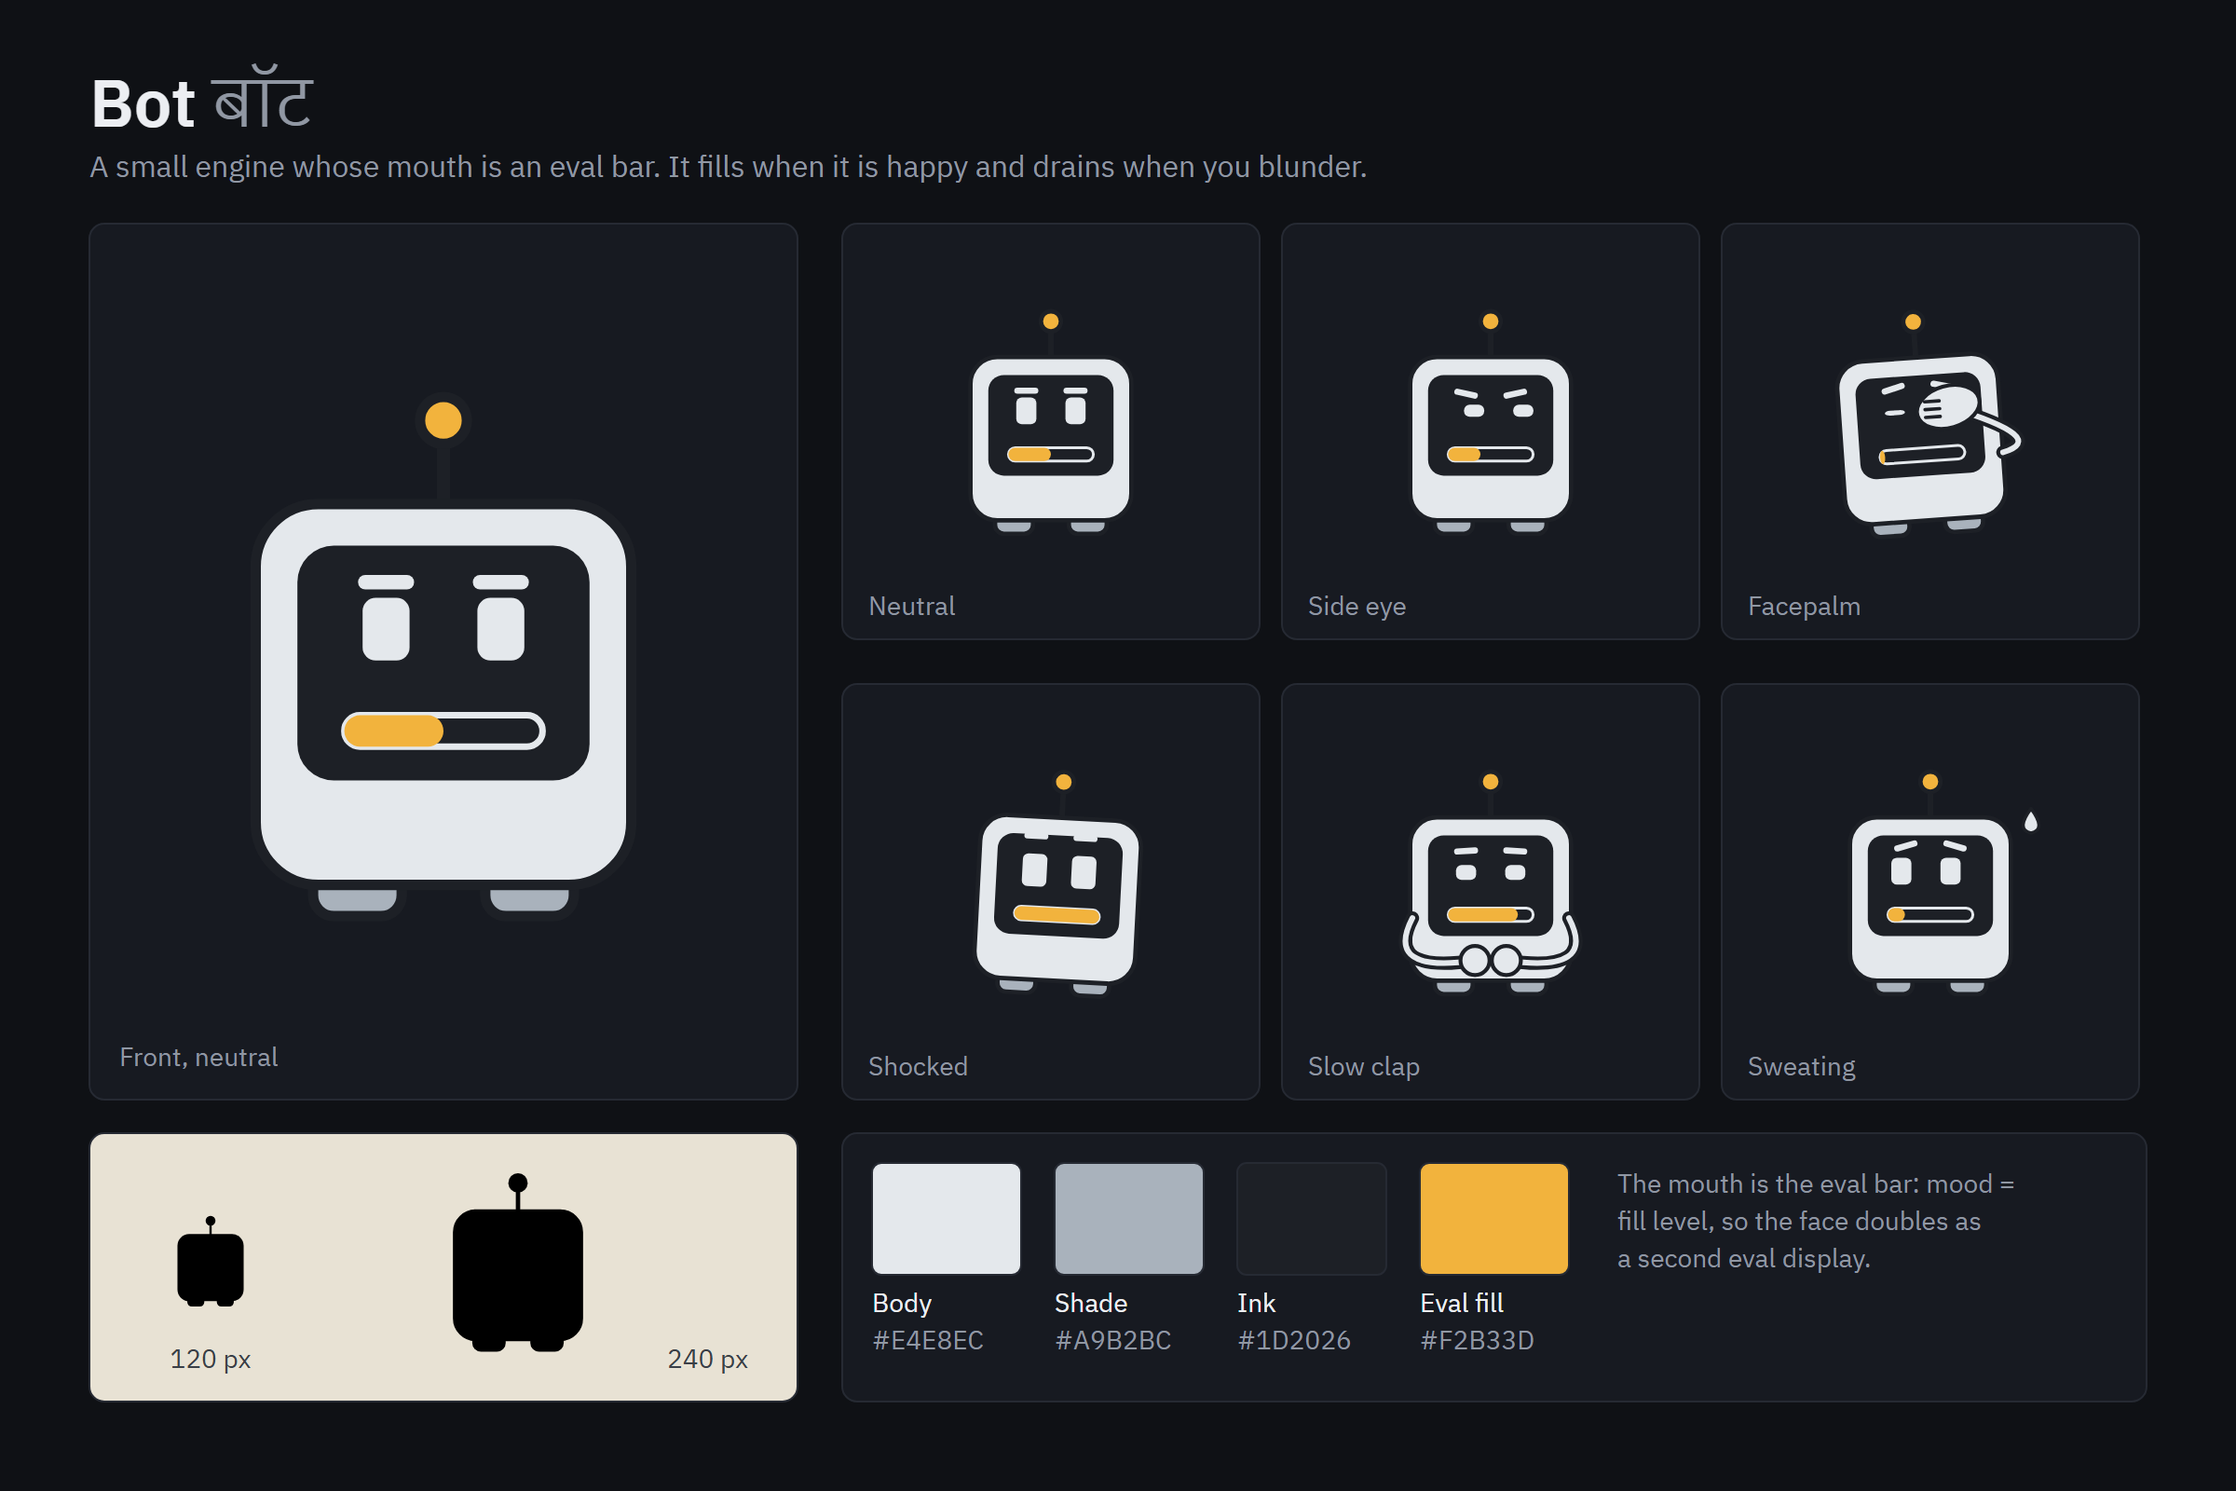
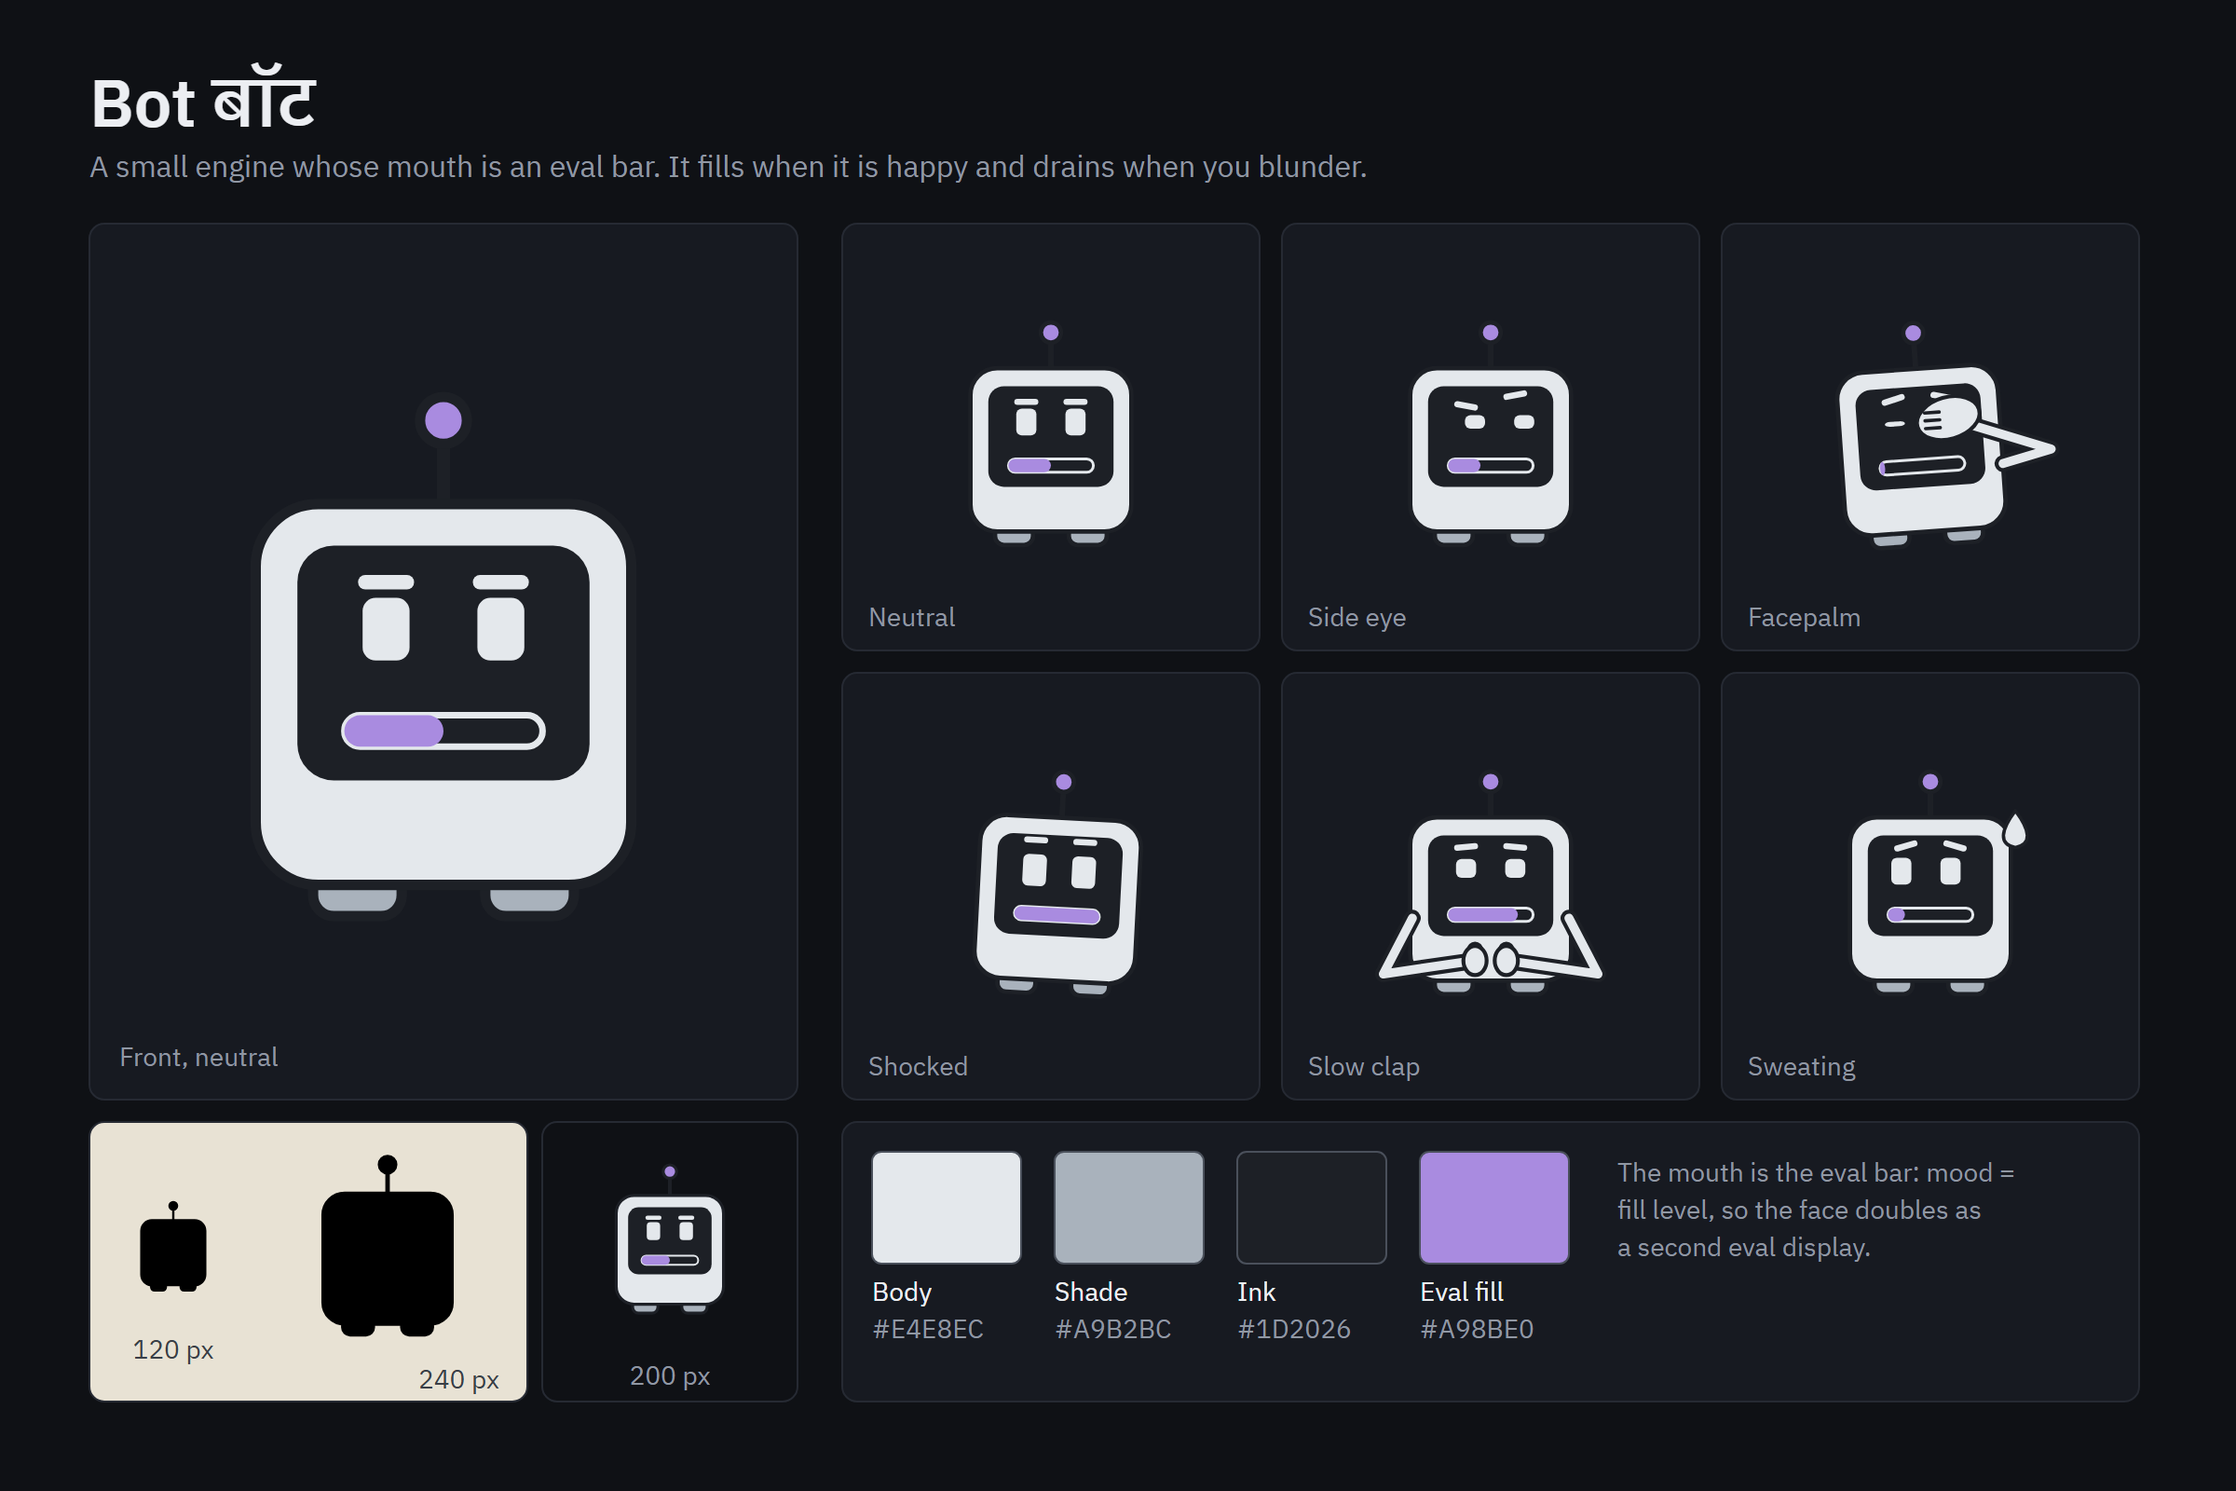
fix(mascot): apply design-critic findings
Accents moved off the move-quality ambers, two-segment elbowed arms,
mitten hands, body-coloured lids, distinct side-eye vs slow-clap, crown
pop on shocked, sweat on the temple, 200 px colour check, grid fixes.

diff --git a/design/mascot/build_sheets.py b/design/mascot/build_sheets.py
@@ -45,6 +45,8 @@ class Face:
     sweat: bool = False
     level: float = 0.5         # engine bot: eval-bar mouth fill
     lean: float = 0.0          # body rotation in degrees
+    brow_r_y: float = 0.0      # extra raise of the right brow only (skeptical look)
+    pop: float = 0.0           # head prop lift in px (crown pops off when shocked)
 
 
 def attrs(**kw) -> str:
@@ -53,7 +55,7 @@ def attrs(**kw) -> str:
 
 # ---------- shared parts ----------
 
-def eye(cx: float, cy: float, f: Face, p: Palette, uid: str, rx=15, ry=20) -> str:
+def eye(cx: float, cy: float, f: Face, p: Palette, uid: str, rx=18, ry=24) -> str:
     rx, ry = rx * f.scale, ry * f.scale
     if f.shut:
         bend = 7 if f.shut == "down" else -3
@@ -63,13 +65,13 @@ def eye(cx: float, cy: float, f: Face, p: Palette, uid: str, rx=15, ry=20) -> st
             d = f"M{cx-rx},{cy-6} L{cx+rx*0.5},{cy} L{cx-rx},{cy+6}" if uid.endswith("l") else f"M{cx+rx},{cy-6} L{cx-rx*0.5},{cy} L{cx+rx},{cy+6}"
         return f'<g id="eye-{uid}"><path d="{d}" fill="none" stroke="{p.ink}" stroke-width="{STROKE+1}" stroke-linecap="round" stroke-linejoin="round"/>{extra}</g>'
     clip = f"clip-{uid}"
-    pr = 7.5 * f.pupil * f.scale
+    pr = 8.5 * f.pupil * f.scale
     pxx, pyy = cx + f.px * (rx - pr - 2), cy + f.py * (ry - pr - 2)
     lid_h = 2 * ry * (1 - f.open)
     lid = ""
     if lid_h > 0.5:
         top = cy - ry
-        lid = (f'<rect x="{cx-rx-2}" y="{top-2}" width="{2*rx+4}" height="{lid_h+2}" fill="{p.shade}"/>'
+        lid = (f'<rect x="{cx-rx-2}" y="{top-2}" width="{2*rx+4}" height="{lid_h+2}" fill="{p.body}"/>'
                f'<line x1="{cx-rx}" y1="{top+lid_h}" x2="{cx+rx}" y2="{top+lid_h}" stroke="{p.ink}" stroke-width="{STROKE-0.5}"/>')
     return (f'<g id="eye-{uid}"><clipPath id="{clip}"><ellipse cx="{cx}" cy="{cy}" rx="{rx}" ry="{ry}"/></clipPath>'
             f'<ellipse cx="{cx}" cy="{cy}" rx="{rx}" ry="{ry}" fill="{p.body}"/>'
@@ -80,12 +82,13 @@ def eye(cx: float, cy: float, f: Face, p: Palette, uid: str, rx=15, ry=20) -> st
 
 def brows(lx: float, rx_: float, y: float, f: Face, p: Palette, color: str | None = None, w=20) -> str:
     c = color or p.ink
-    y = y - f.brow_y * 9
+    y = y - max(-1.0, min(1.0, f.brow_y)) * 9  # capped so brows never hit the head prop
     out = []
     for side, x in (("l", lx), ("r", rx_)):
         a = f.brow * 18 * (1 if side == "l" else -1)  # inner ends tilt together
-        out.append(f'<line id="brow-{side}" x1="{x-w/2}" y1="{y}" x2="{x+w/2}" y2="{y}" stroke="{c}" stroke-width="{STROKE+1.5}" '
-                   f'stroke-linecap="round" transform="rotate({a} {x} {y})"/>')
+        by = y - (f.brow_r_y * 8 if side == "r" else 0)
+        out.append(f'<line id="brow-{side}" x1="{x-w/2}" y1="{by}" x2="{x+w/2}" y2="{by}" stroke="{c}" stroke-width="{STROKE+1.5}" '
+                   f'stroke-linecap="round" transform="rotate({a} {x} {by})"/>')
     return "".join(out)
 
 
@@ -105,15 +108,17 @@ def mouth(cx: float, cy: float, kind: str, p: Palette) -> str:
 
 def arm(points: list[tuple[float, float]], p: Palette, side: str, hand_r=13) -> str:
     (x0, y0), (x1, y1), (x2, y2) = points
-    d = f"M{x0},{y0} Q{x1},{y1} {x2},{y2}"
-    return (f'<g id="arm-{side}"><path d="{d}" fill="none" stroke="{p.ink}" stroke-width="{STROKE+8}" stroke-linecap="round"/>'
-            f'<path d="{d}" fill="none" stroke="{p.body}" stroke-width="{STROKE+1}" stroke-linecap="round"/>'
+    d = f"M{x0},{y0} L{x1},{y1} L{x2},{y2}"  # shoulder, elbow, hand: two segments per spec section 7
+    return (f'<g id="arm-{side}"><path d="{d}" fill="none" stroke="{p.ink}" stroke-width="{STROKE+11}" stroke-linecap="round" stroke-linejoin="round"/>'
+            f'<path d="{d}" fill="none" stroke="{p.body}" stroke-width="{STROKE+4}" stroke-linecap="round" stroke-linejoin="round"/>'
             + hand(x2, y2, hand_r, p) + '</g>')
 
 
 def hand(x: float, y: float, r: float, p: Palette) -> str:
     if r < 20:
-        return f'<circle cx="{x}" cy="{y}" r="{r}" fill="{p.body}" stroke="{p.ink}" stroke-width="{STROKE-0.5}"/>'
+        sk = f'fill="{p.body}" stroke="{p.ink}" stroke-width="{STROKE-0.5}"'
+        return (f'<circle cx="{x}" cy="{y-r*0.75}" r="{r*0.42}" {sk}/>'  # thumb
+                f'<ellipse cx="{x}" cy="{y}" rx="{r*0.8}" ry="{r}" {sk}/>')
     # open palm laid over the face: a wide mitten with finger creases, so it never reads as a monocle
     creases = "".join(f'<line x1="{x-r*0.95}" y1="{y+dy}" x2="{x-r*0.35}" y2="{y+dy}" stroke="{p.ink}" stroke-width="{STROKE-1}" stroke-linecap="round"/>'
                       for dy in (-6, 1, 8))
@@ -121,8 +126,8 @@ def hand(x: float, y: float, r: float, p: Palette) -> str:
             f'stroke="{p.ink}" stroke-width="{STROKE-0.5}"/>' + creases)
 
 
-def sweat(x: float, y: float, p: Palette) -> str:
-    return (f'<path d="M{x},{y} C{x+9},{y+12} {x+10},{y+20} {x},{y+22} C{x-10},{y+20} {x-9},{y+12} {x},{y} Z" '
+def sweat(x: float, y: float, p: Palette, k: float = 1.5) -> str:
+    return (f'<path d="M{x},{y} C{x+9*k},{y+12*k} {x+10*k},{y+20*k} {x},{y+22*k} C{x-10*k},{y+20*k} {x-9*k},{y+12*k} {x},{y} Z" '
             f'fill="{p.body}" stroke="{p.ink}" stroke-width="{STROKE-1}" stroke-linejoin="round"/>')
 
 
@@ -145,15 +150,15 @@ def pyaada(f: Face, p: Palette) -> str:
     ink = f'stroke="{p.ink}" stroke-width="{STROKE}" stroke-linejoin="round"'
     arms_back = ""
     arms_front = "".join(arm(pts, p, s, hand_r=22 if f.arms == "facepalm" else 13) for s, pts in PAWN_ARMS[f.arms])
-    face = (eye(98, 88, f, p, "l") + eye(142, 88, f, p, "r") + brows(97, 143, 58, f, p) + mouth(120, 122, f.mouth, p))
-    crown = (f'<g id="prop" transform="translate(112,8) rotate(13)"><path d="M0,32 L0,9 L13,19 L26,0 L39,19 L52,9 L52,32 Z" '
+    face = (eye(96, 90, f, p, "l") + eye(144, 90, f, p, "r") + brows(96, 144, 54, f, p) + mouth(120, 126, f.mouth, p))
+    crown = (f'<g id="prop-head" transform="translate({112 + f.pop * 0.3},{8 - f.pop}) rotate({13 + f.pop * 0.8})"><path d="M0,32 L0,9 L13,19 L26,0 L39,19 L52,9 L52,32 Z" '
              f'fill="{p.accent}" {ink}/></g>')
     return (f'<g transform="rotate({f.lean} 120 249)">'
             f'<path id="body" d="M88,138 C86,170 62,190 46,210 L194,210 C178,190 154,170 152,138 Z" fill="{p.body}" {ink}/>'
             + pawn_base(p) +
             f'<ellipse id="collar" cx="120" cy="140" rx="45" ry="11" fill="{p.body}" {ink}/>'
             f'<circle id="head" cx="120" cy="84" r="58" fill="{p.body}" {ink}/>'
-            + crown + face + (sweat(190, 44, p) if f.sweat else "") + arms_back + arms_front + "</g>")
+            + crown + face + (sweat(166, 42, p) if f.sweat else "") + arms_back + arms_front + "</g>")
 
 
 KNIGHT_ARMS = {
@@ -174,8 +179,8 @@ def knight(f: Face, p: Palette) -> str:
             + f'<circle cx="196" cy="100" r="3.2" fill="{p.ink}"/>')
     arms = "".join(arm(pts, p, s, hand_r=22 if f.arms == "facepalm" else 13) for s, pts in KNIGHT_ARMS.get(f.arms, []))
     return (f'<g transform="rotate({f.lean} 120 249)">' + f'<path id="body" d="{head}" fill="{p.body}" {ink}/>'
-            + f'<path id="prop" d="{mane}" fill="{p.accent}" {ink}/>' + pawn_base(p) + face
-            + (sweat(176, 36, p) if f.sweat else "") + arms + "</g>")
+            + f'<path id="prop-head" d="{mane}" fill="{p.accent}" {ink}/>' + pawn_base(p) + face
+            + (sweat(170, 40, p) if f.sweat else "") + arms + "</g>")
 
 
 BOT_ARMS = {
@@ -199,11 +204,11 @@ def engine_bot(f: Face, p: Palette) -> str:
     feet = "".join(f'<rect x="{x}" y="200" width="34" height="18" rx="8" fill="{p.shade}" {ink}/>' for x in (70, 136))
     return (f'<g transform="rotate({f.lean} 120 249)">' + feet
             + f'<line x1="120" y1="62" x2="120" y2="34" stroke="{p.ink}" stroke-width="{STROKE+1}" stroke-linecap="round"/>'
-            + f'<circle id="prop" cx="120" cy="28" r="9" fill="{p.accent}" {ink}/>'
+            + f'<circle id="prop-head" cx="120" cy="28" r="9" fill="{p.accent}" {ink}/>'
             + f'<rect id="body" x="48" y="60" width="144" height="146" rx="24" fill="{p.body}" {ink}/>'
             + f'<rect id="head" x="64" y="76" width="112" height="90" rx="14" fill="{p.ink}"/>'
             + eyes + brows(98, 142, 90, f, p, color=p.body, w=16) + bar
-            + (sweat(210, 52, p) if f.sweat else "") + arms + "</g>")
+            + (sweat(196, 54, p) if f.sweat else "") + arms + "</g>")
 
 
 # ---------- concepts ----------
@@ -219,15 +224,16 @@ class Concept:
     swatch_names: tuple
     expressions: list = field(default_factory=list)
     note: str = ""
+    view: str = "Front, neutral"
 
 
 EXPR = ["neutral", "side_eye", "facepalm", "shocked", "slow_clap", "sweating"]
 PAWN_FACES = {
     "neutral": Face(mouth="smile"),
-    "side_eye": Face(open=0.45, px=0.9, brow=0.7, brow_y=-0.3, mouth="flat"),
+    "side_eye": Face(open=0.5, px=1.0, brow=0.6, brow_y=-0.4, brow_r_y=1.2, mouth="flat"),
     "facepalm": Face(shut="down", brow=-0.8, brow_y=0.4, mouth="frown", arms="facepalm", lean=-4),
-    "shocked": Face(scale=1.22, pupil=0.6, brow_y=1.4, mouth="o", lean=3),
-    "slow_clap": Face(open=0.55, py=0.2, brow=-0.2, mouth="smirk", arms="clap"),
+    "shocked": Face(scale=1.18, pupil=0.55, brow_y=1.0, mouth="o", lean=3, pop=14),
+    "slow_clap": Face(open=0.7, py=-0.4, brow=-0.3, brow_y=0.4, mouth="smirk", arms="clap"),
     "sweating": Face(pupil=0.7, px=-0.5, brow=-0.9, brow_y=0.5, mouth="wavy", sweat=True),
 }
 BOT_FACES = {**PAWN_FACES,
@@ -240,13 +246,13 @@ BOT_FACES = {**PAWN_FACES,
 
 CONCEPTS = [
     Concept("pyaada", "Pyaada", "प्यादा", "A pawn who is sure he deserves to be promoted. He made the crown himself.",
-            pyaada, Palette("#F1E7D3", "#C8B391", "#1D2026", "#F2B33D"), ("body", "shade", "ink", "crown"),
+            pyaada, Palette("#F1E7D3", "#C8B391", "#1D2026", "#6FA8DC"), ("body", "shade", "ink", "paper crown"),
             note="Running gag: wants promotion, distrusts the h-pawn, thinks every rook lift is too aggressive."),
     Concept("knight", "Ghoda", "घोड़ा", "A tiny knight who refuses to move in anything but an L, even across the screen.",
-            knight, Palette("#F1E7D3", "#C8B391", "#1D2026", "#D9774B"), ("body", "shade", "ink", "mane"),
-            note="Entrances and exits are two squares then one: the L-move is the walk cycle."),
+            knight, Palette("#F1E7D3", "#C8B391", "#1D2026", "#4FB6C8"), ("body", "shade", "ink", "mane"),
+            note="Entrances and exits are two squares then one: the L-move is the walk cycle.", view="Three-quarter, neutral"),
     Concept("engine-bot", "Bot", "बॉट", "A small engine whose mouth is an eval bar. It fills when it is happy and drains when you blunder.",
-            engine_bot, Palette("#E4E8EC", "#A9B2BC", "#1D2026", "#F2B33D"), ("body", "shade", "ink", "eval fill"),
+            engine_bot, Palette("#E4E8EC", "#A9B2BC", "#1D2026", "#A98BE0"), ("body", "shade", "ink", "eval fill"),
             note="The mouth is the eval bar: mood = fill level, so the face doubles as a second eval display."),
 ]
 
@@ -273,31 +279,34 @@ def sheet(c: Concept) -> str:
     faces = BOT_FACES if c.slug == "engine-bot" else PAWN_FACES
     out = [f'<svg xmlns="http://www.w3.org/2000/svg" width="{W}" height="{H}" viewBox="0 0 {W} {H}">',
            f'<rect width="{W}" height="{H}" fill="{BG}"/>',
-           text(M, 136, f'{c.name} <tspan fill="{MUTED}" font-weight="400">{c.native}</tspan>', 72, weight=600),
+           text(M, 136, f'{c.name} <tspan font-family="IBM Plex Sans Devanagari">{c.native}</tspan>', 72, weight=600),
            text(M, 190, c.line, 32, MUTED)]
     # hero
     hx, hy, hw, hh = M, 240, 760, 940
     out += [panel(hx, hy, hw, hh), place(c, faces["neutral"], c.palette, hx + hw / 2, hy + hh - 110, 700),
-            text(hx + 32, hy + hh - 36, "Front, neutral", 28, MUTED)]
+            text(hx + 32, hy + hh - 36, c.view, 28, MUTED)]
     # expressions
-    cw, ch, gap, ex0 = 448, 446, 24, 904
+    cw, ch, gap, ex0 = 448, 458, 24, 904
     for i, name in enumerate(EXPR):
-        cx, cy = ex0 + (i % 3) * (cw + gap), 240 + (i // 3) * (ch + 48)
+        cx, cy = ex0 + (i % 3) * (cw + gap), 240 + (i // 3) * (ch + gap)
         out += [panel(cx, cy, cw, ch), place(c, faces[name], c.palette, cx + cw / 2, cy + ch - 76, 300),
                 text(cx + 28, cy + ch - 26, name.replace("_", " ").capitalize(), 28, MUTED)]
-    # silhouettes on light, at 120 px and 240 px tall
-    sy = 1216
-    out += [panel(M, sy, 760, 288, LIGHT),
-            place(c, faces["neutral"], SILHOUETTE, M + 130, sy + 200, 120),
-            text(M + 130, sy + 252, "120 px", 28, "#3A3F47", anchor="middle"),
-            place(c, faces["neutral"], SILHOUETTE, M + 460, sy + 262, 236),
-            text(M + 620, sy + 252, "240 px", 28, "#3A3F47")]
+    # silhouettes on light at 120 and 240 px; colour at real Studio size (200 px) on the video background
+    sy, bh = 1204, 300
+    out += [panel(M, sy, 470, bh, LIGHT),
+            place(c, faces["neutral"], SILHOUETTE, M + 90, sy + 196, 120),
+            place(c, faces["neutral"], SILHOUETTE, M + 320, sy + 258, 240),
+            text(M + 90, sy + 254, "120 px", 28, "#3A3F47", anchor="middle"),
+            text(M + 440, sy + 286, "240 px", 28, "#3A3F47", anchor="end"),
+            panel(M + 486, sy, 274, bh, BG),
+            place(c, faces["neutral"], c.palette, M + 486 + 137, sy + 230, 200),
+            text(M + 486 + 137, sy + 282, "200 px", 28, MUTED, anchor="middle")]
     # palette + note
     px0 = ex0
-    out.append(panel(px0, sy, 1400, 288))
+    out.append(panel(px0, sy, 1392, bh))
     for i, (hexv, label) in enumerate(zip((c.palette.body, c.palette.shade, c.palette.ink, c.palette.accent), c.swatch_names)):
         x = px0 + 32 + i * 196
-        out += [f'<rect x="{x}" y="{sy + 32}" width="160" height="120" rx="10" fill="{hexv}" stroke="{HAIRLINE}" stroke-width="2"/>',
+        out += [f'<rect x="{x}" y="{sy + 32}" width="160" height="120" rx="10" fill="{hexv}" stroke="#4A505B" stroke-width="2"/>',
                 text(x, sy + 192, label.capitalize(), 28),
                 text(x, sy + 232, hexv.upper(), 28, MUTED)]
     note_x = px0 + 32 + 4 * 196 + 16
